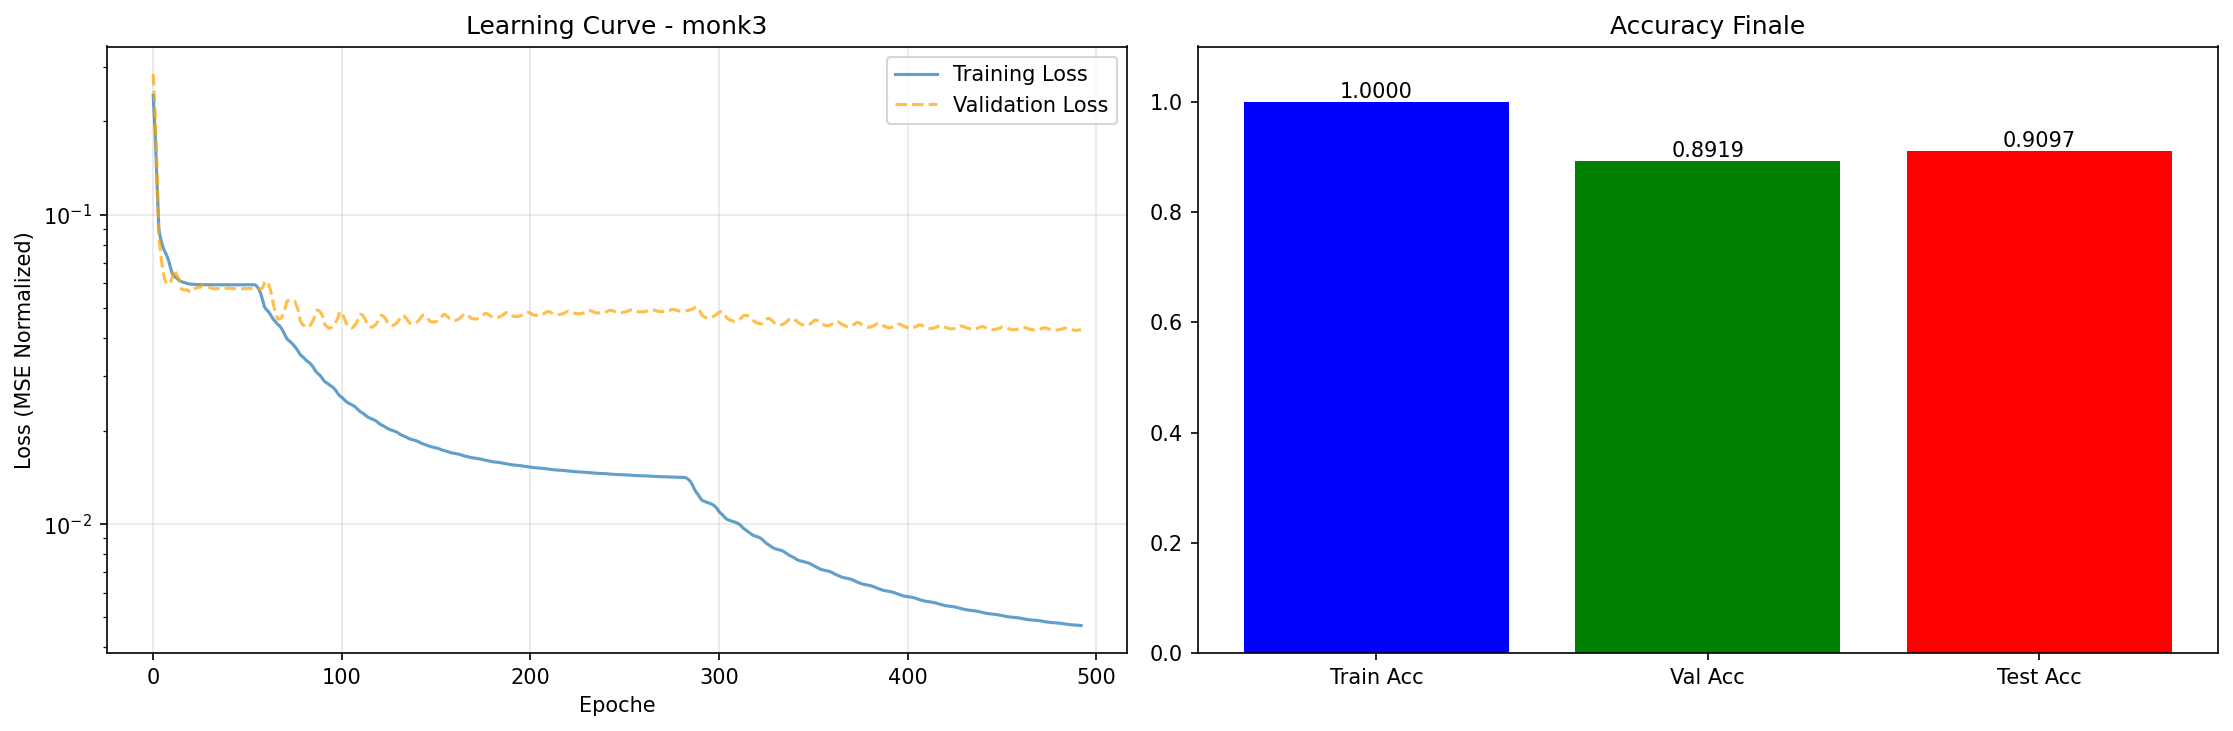
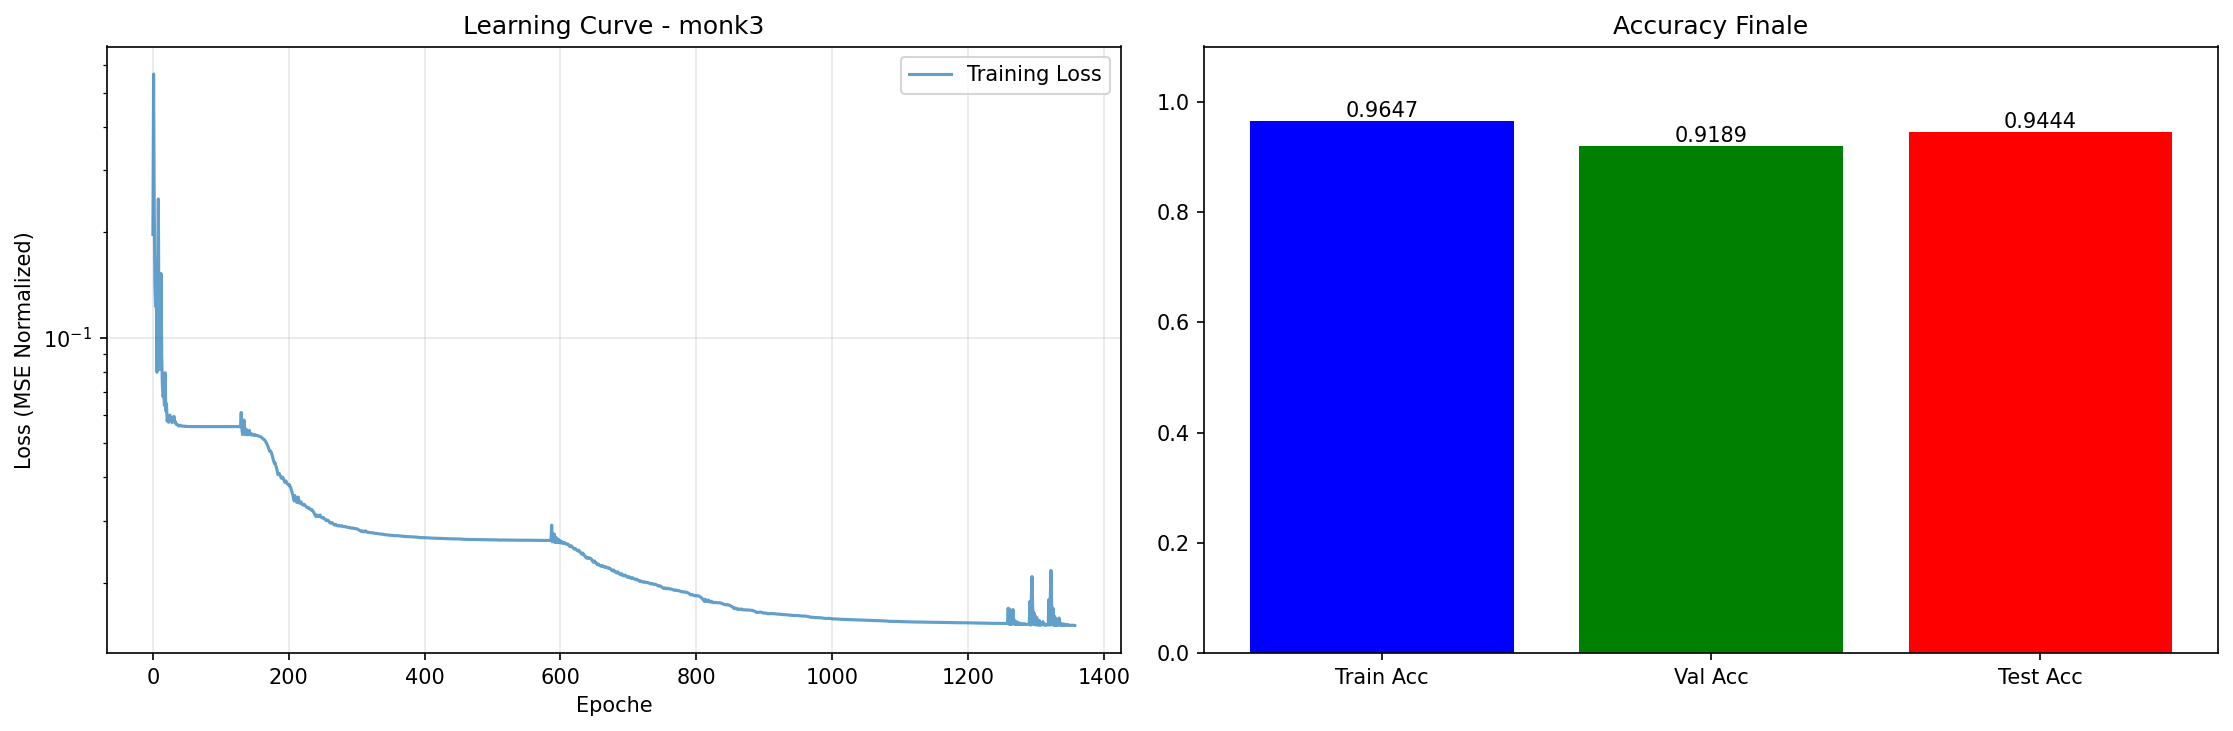
Revert "MONK1-2 CASCADE TOP"
This reverts commit d29e5716cb7194d01943e0cc1b319b904baab2f0.

diff --git a/src/cascade_grid_search.py b/src/cascade_grid_search.py
@@ -1,6 +1,5 @@
 import itertools
 import numpy as np
-from joblib import Parallel, delayed
 import matplotlib.pyplot as plt
 from cascade_correlation import CascadeNetwork
 from data_manipulation import *
@@ -64,12 +63,7 @@ class CascadeGridSearch:
                 max_hidden_units=params['max_hidden_units']
             )
             
-            history_package = {
-                'train': net.loss_history,
-                'val': net.val_loss_history
-            }
-            
-            y_pred_train = np.array([net.forward(x) for x in self.X_train])
+            loss_history = net.loss_history
             
             y_pred_train = np.array([net.forward(x) for x in self.X_train])
             y_pred_val = np.array([net.forward(x) for x in self.X_val])
@@ -85,7 +79,7 @@ class CascadeGridSearch:
                 'val_loss': val_loss,
                 'test_loss': test_loss,
                 'min_val_loss': val_loss, 
-                'history': history_package
+                'history': loss_history
             }
             
             if self.dataset_name != 'cup':
@@ -130,42 +124,19 @@ class CascadeGridSearch:
     def coarse_grid_search(self):
         print("INIZIO COARSE SEARCH CASCADE")
 
-        if self.dataset_name == 'cup':
-            param_grid = {
-                'learning_rate': [0.005, 0.01, 0.02], # LR più bassi per precisione
-                'patience': [50, 80],                 # Più pazienza
-                'tolerance': [0.001, 0.0005],         # Tolleranza più stretta
-                'max_hidden_units': [5, 10, 15],      # Più neuroni per complessità
-                'algorithm': ['rprop', 'quickprop'],  # Rprop spesso va meglio su regressione
-                'epochs': [1000],
-                'l2_lambda': [0.0001, 0.001]          # Regolarizzazione importante
-            }
-        elif self.dataset_name == 'monk3':
-           param_grid = {
-                'learning_rate': [0.1, 0.2],
-                'patience': [30, 40],       
-                'tolerance': [0.01, 0.02],  
-                'max_hidden_units': [2, 3, 4], 
-                'algorithm': ['quickprop'],
-                'l2_lambda': [0.01, 0.001], 
-                'epochs': [1000]
-            }
-        elif self.dataset_name == 'monk1' or self.dataset_name == 'monk2':
-             param_grid = {
-                'learning_rate': [0.1, 0.2],          # LR più alti
-                'patience': [30],
-                'tolerance': [0.01],
-                'max_hidden_units': [2, 3],           
-                'algorithm': ['quickprop'],           # Quickprop vola sui Monk
-                'epochs': [1000],
-                'l2_lambda': [0.0001]                 # Regolarizzazione minima
-            }
+        param_grid = {
+            'learning_rate': [0.01, 0.05, 0.1],   
+            'patience': [20, 50],                 
+            'tolerance': [0.01, 0.001],           
+            'max_hidden_units': [5, 10, 15],      
+            'algorithm': ['quickprop', 'rprop'],
+            'epochs': [1000]
+        }
         
         all_combinations = []
         for combo in itertools.product(*param_grid.values()):
             params = dict(zip(param_grid.keys(), combo))
             
-            # Logica correzione parametri (SGD/Momentum)
             if params['algorithm'] == 'sgd' and params.get('momentum', 0.0) == 0.0:
                 params['mu'] = 1.75
                 all_combinations.append(params)
@@ -174,56 +145,24 @@ class CascadeGridSearch:
                 all_combinations.append(params)
         
         print(f"Numero totale di combinazioni: {len(all_combinations)}")
-        print(f"Sto utilizzando tutti i core disponibili del processore Ryzen 5 3500U...")
         
-        shared_data = (
-            self.X_train, self.y_train, 
-            self.X_val, self.y_val, 
-            self.X_test, self.y_test
-        )
-        
-        def process_single_combination(params, data_pack):
-            # spacchetta i dati condivisi
-            X_tr, y_tr, X_v, y_v, X_te, y_te = data_pack
-            
-            # Crea istanza
-            searcher = CascadeGridSearch(self.dataset_name)
-            
-            # SOVRASCRIVI i dati con quelli fissati dal main process
-            # (Ignoriamo quelli caricati nel __init__ del worker)
-            searcher.X_train, searcher.y_train = X_tr, y_tr
-            searcher.X_val, searcher.y_val = X_v, y_v
-            searcher.X_test, searcher.y_test = X_te, y_te
-            
-            # Disabilita stampe
-            import sys, os
-            original_stdout = sys.stdout
-            sys.stdout = open(os.devnull, 'w')
-            try:
-                results, _ = searcher.train_evaluate(params)
-            finally:
-                sys.stdout.close()
-                sys.stdout = original_stdout
-            
-            return (params, results)
-        
-        # Passiamo 'shared_data' a ogni job
-        all_results_raw = Parallel(n_jobs=-1, verbose=10)(
-            delayed(process_single_combination)(p, shared_data) for p in all_combinations
-        )
-        
-        all_results = [res for res in all_results_raw if res[1] is not None]
-        
-        # ... (Il resto del codice per ordinare e stampare rimane uguale) ...
-        # RICERCA DEL MIGLIORE
         best_score = float('inf')
         best_params = None
+        all_results = []
         
-        for params, results in all_results:
-            current_score = results['min_val_loss']
-            if current_score < best_score:
-                best_score = current_score
-                best_params = params.copy()
+        for i, params in enumerate(tqdm(all_combinations, desc="Grid Search")):
+            results, _ = self.train_evaluate(params)
+            
+            if results is not None:
+                all_results.append((params, results))
+                
+                # Usa validation loss (MSE normalizzato) per la selezione del modello migliore
+                current_score = results['min_val_loss']
+                
+                if current_score < best_score:
+                    best_score = current_score
+                    best_params = params.copy()
+                    # print(f"\nNuovo miglior risultato: {current_score:.6f}")
         
         print("\n" + "="*80)
         print("MIGLIORI RISULTATI COARSE GRID SEARCH")
@@ -321,16 +260,11 @@ class CascadeGridSearch:
         training_loss = []
         validation_loss = []
             
-        if isinstance(history, dict):
-            training_loss = history.get('train', [])
-            validation_loss = history.get('val', [])
-        elif isinstance(history, (list, np.ndarray)):
+        if isinstance(history, (list, np.ndarray)):
             training_loss = history
         
         # Plot Loss
         axes[0].plot(training_loss, label='Training Loss', alpha=0.7)
-        if len(validation_loss) > 0:
-            axes[0].plot(validation_loss, label='Validation Loss', color='orange', linestyle='--', alpha=0.7)
         axes[0].set_xlabel('Epoche')
         axes[0].set_ylabel('Loss (MSE Normalized)')
         axes[0].set_title(f'Learning Curve - {self.dataset_name}')
